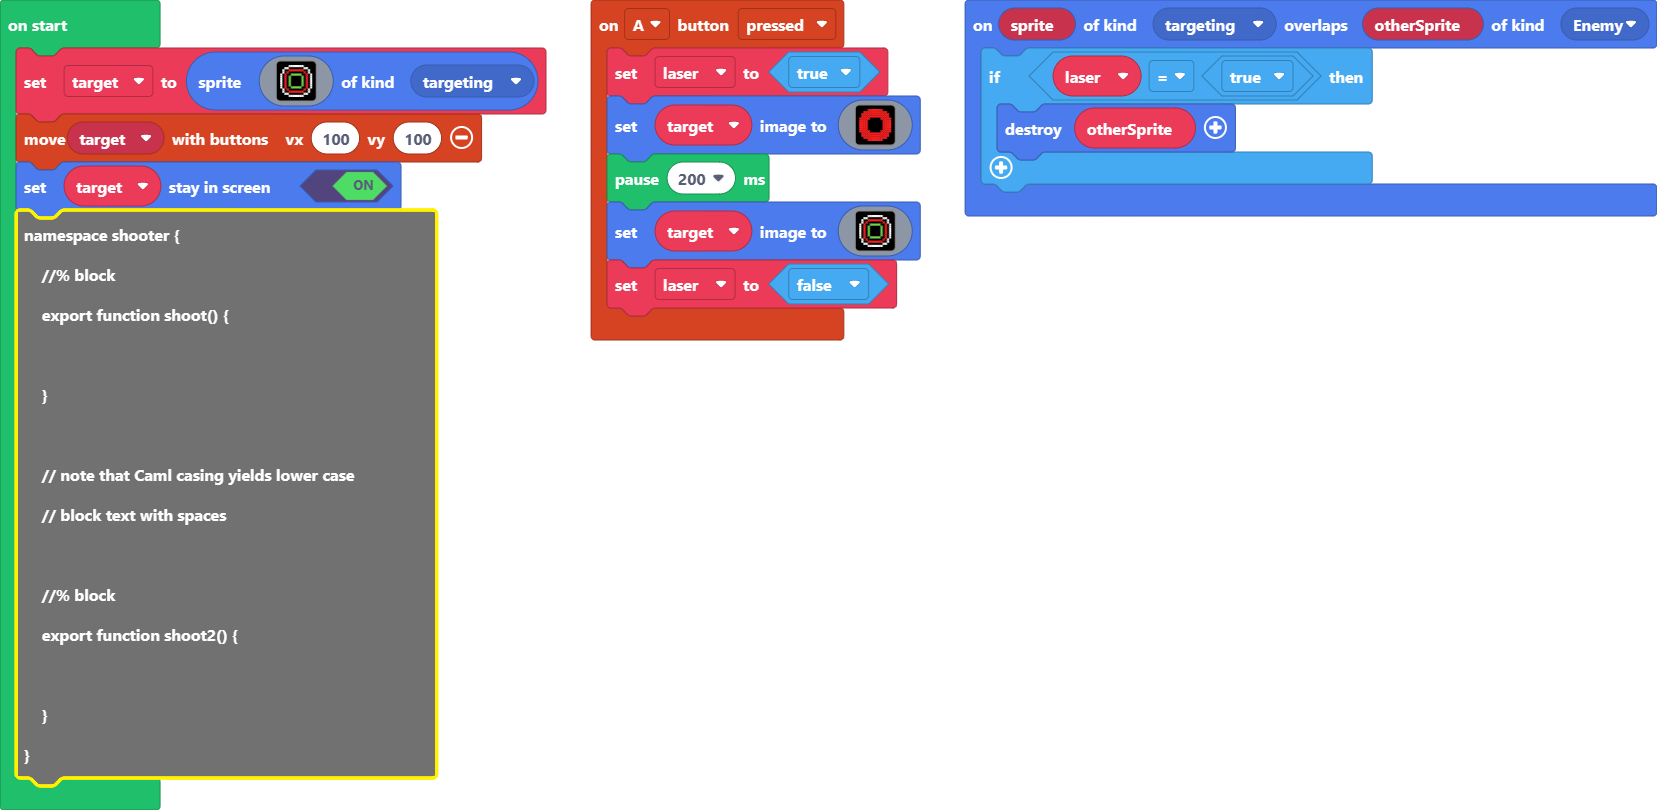
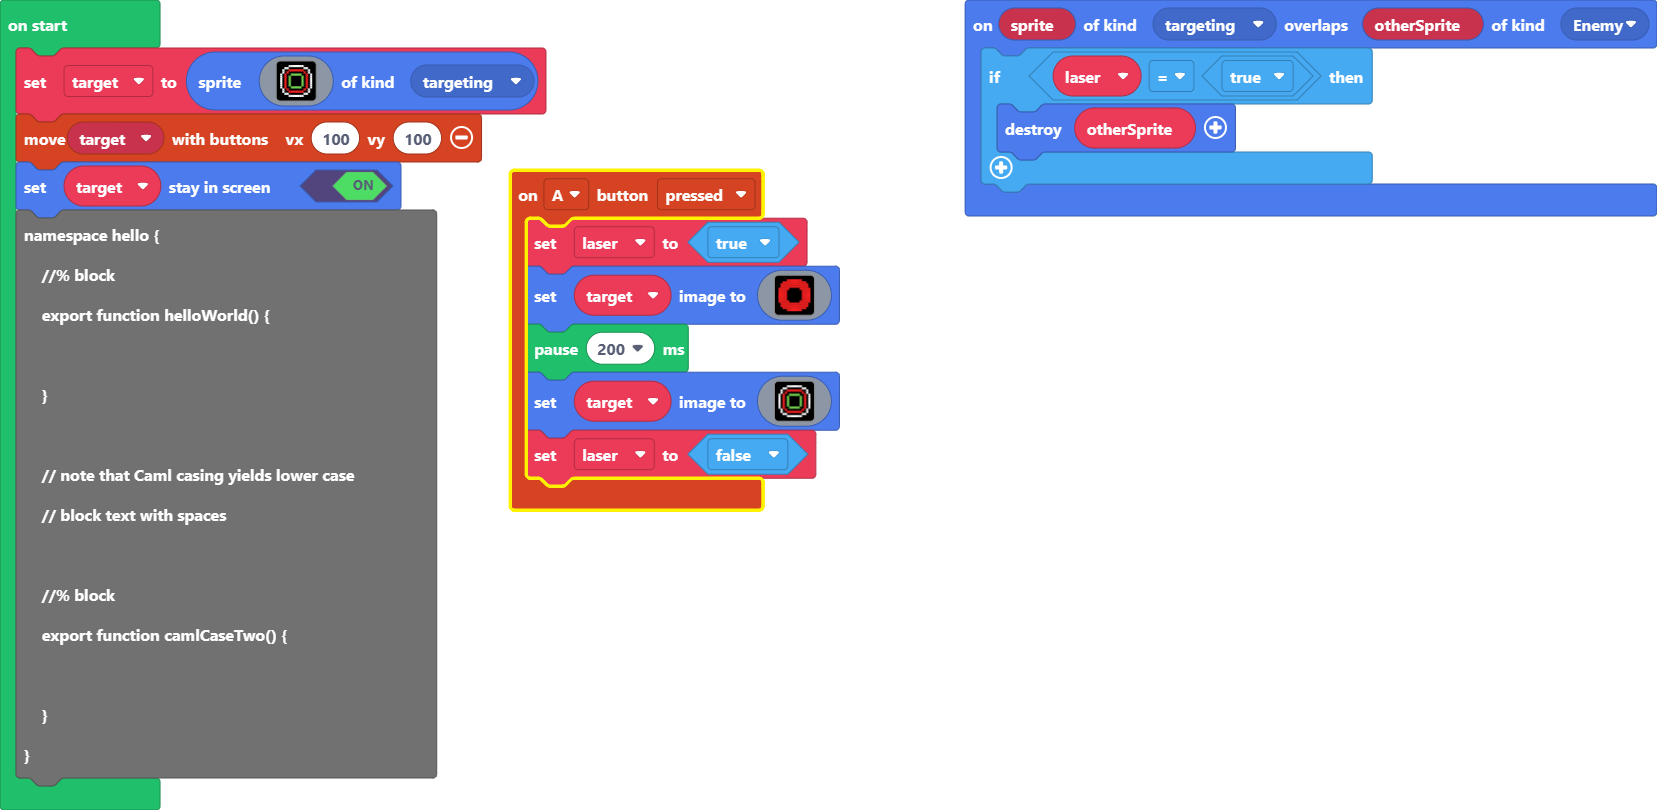
Update main.blocks, main.ts

diff --git a/main.ts b/main.ts
@@ -34,9 +34,9 @@ let target: Sprite = null
 target = sprites.create(assets.image`myImage`, SpriteKind.targeting)
 controller.moveSprite(target, 100, 100)
 target.setStayInScreen(true)
-namespace shooter {
+namespace hello {
     //% block
-    export function shoot() {
+    export function helloWorld() {
 
     }
 
@@ -44,7 +44,7 @@ namespace shooter {
     // block text with spaces
 
     //% block
-    export function shoot2() {
+    export function camlCaseTwo() {
 
     }
 }
